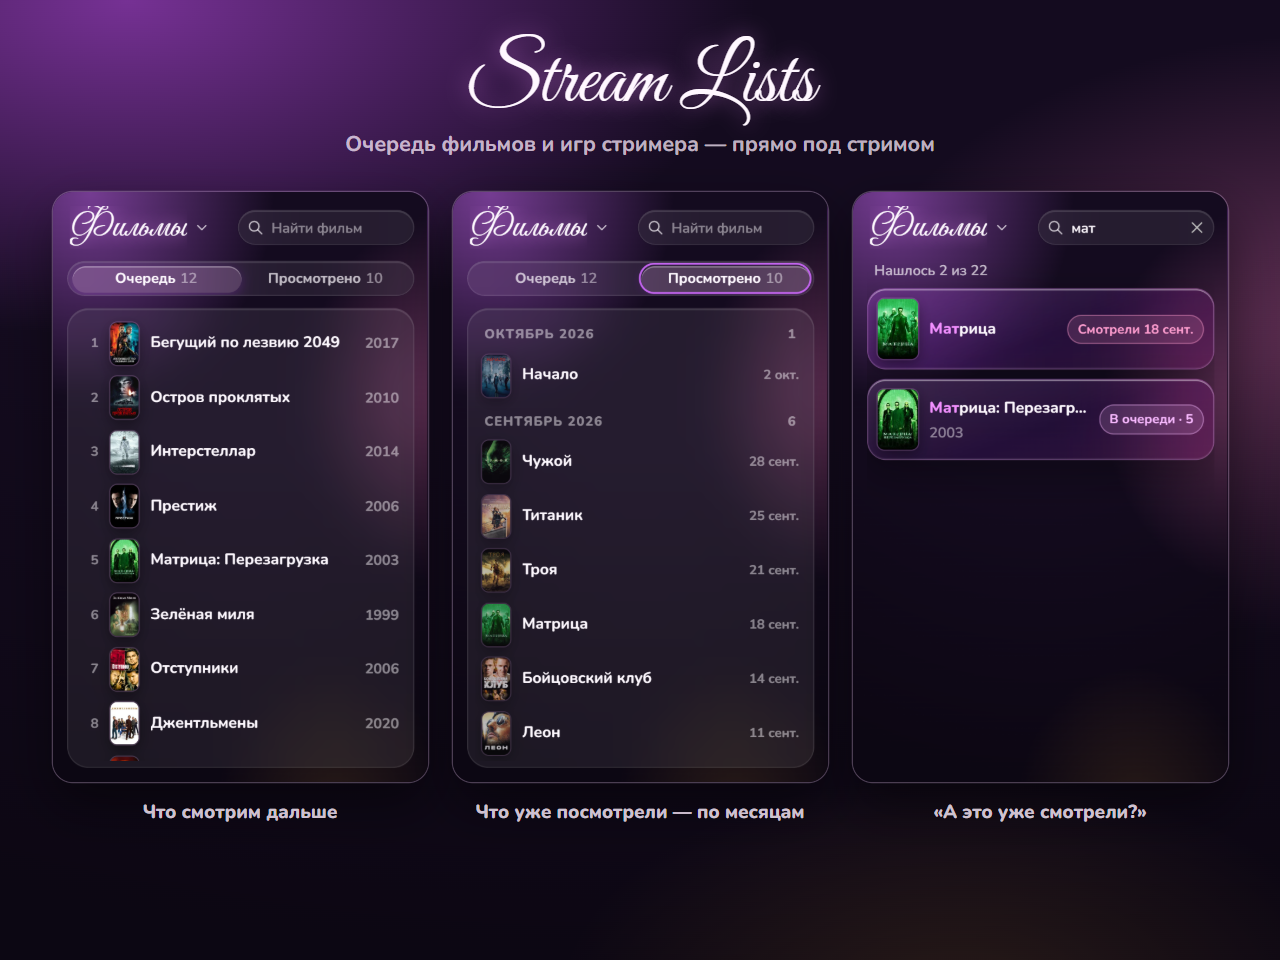
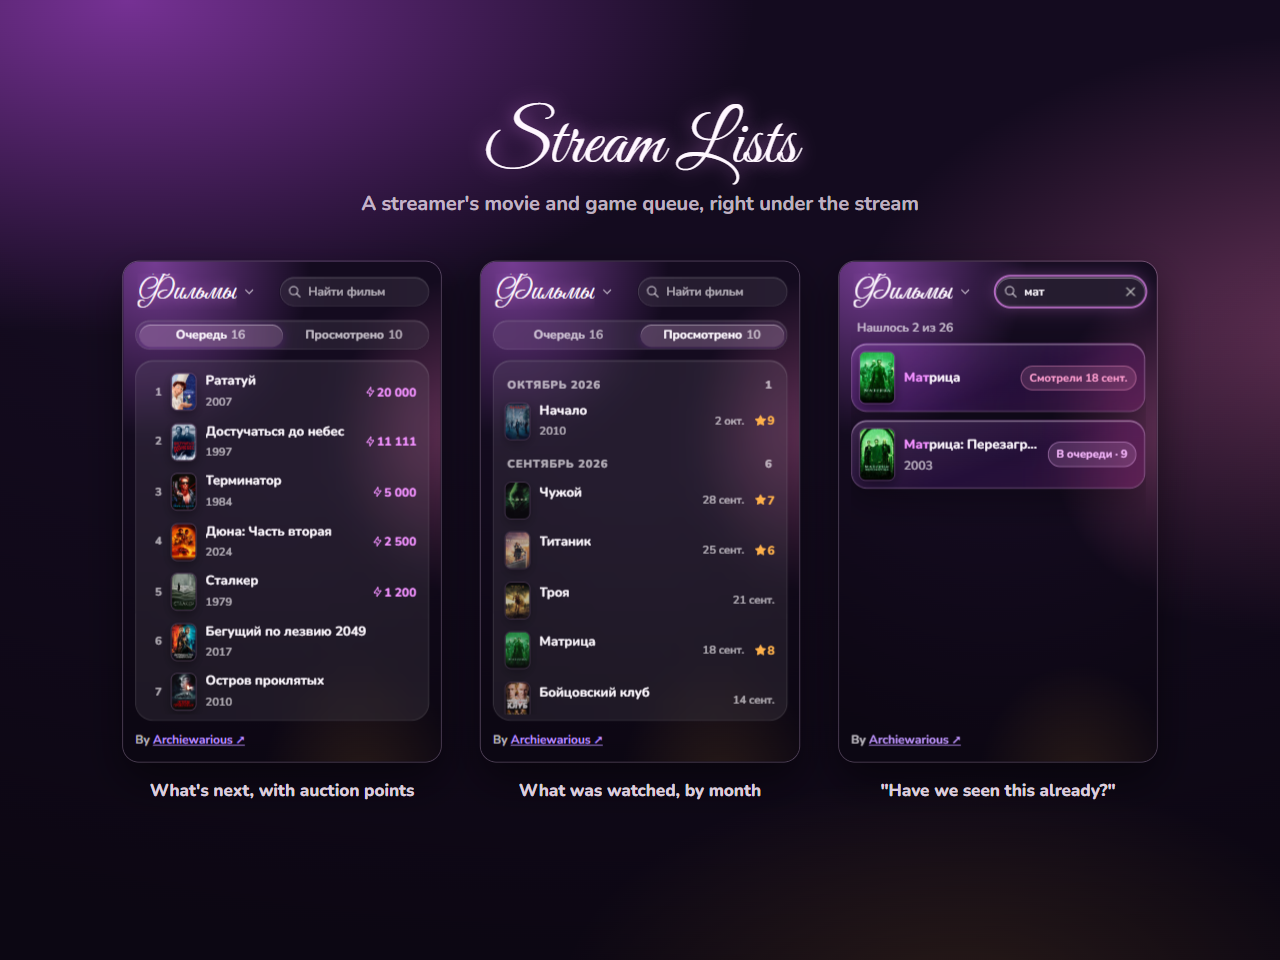
docs(review): walkthrough, console fields and fresh 1280x960 screenshots

diff --git a/docs/review/src/compose.html b/docs/review/src/compose.html
@@ -3,7 +3,7 @@
 <head>
 <meta charset="utf-8" />
 <title>Stream Lists — review assets</title>
-<!-- Renders the Twitch review images; open with #panels, #logo or #discovery and screenshot the viewport. -->
+<!-- Renders the Twitch review images; open with #panels, #editing, #logo or #discovery in a window of the right size and screenshot the viewport. -->
 <link href="https://fonts.googleapis.com/css2?family=Nunito:wght@700;800&family=Great+Vibes&display=swap" rel="stylesheet" />
 <style>
   * { box-sizing: border-box; margin: 0; }
@@ -16,15 +16,15 @@
   .view { display: none; }
   .script { font-family: 'Great Vibes', cursive; font-weight: 400; line-height: 1; text-shadow: 0 0 18px rgb(242 144 255 / 0.55); }
 
-  /* 1024×768: three panel states */
-  #panels { width: 1024px; height: 768px; padding: 34px 35px 0; }
-  #panels h1 { font-size: 64px; text-align: center; }
-  #panels p.sub { text-align: center; font-weight: 700; color: rgb(255 240 255 / 0.72); margin: 6px 0 26px; font-size: 17px; }
-  #panels .row { display: flex; gap: 20px; justify-content: center; }
-  #panels figure { width: 300px; }
-  #panels img { width: 300px; height: 472px; border-radius: 16px; display: block;
+  /* 1280×960: three real panels (318×500, as Twitch draws them), captions in English */
+  #panels, #editing { width: 1280px; height: 960px; padding: 110px 0 0; }
+  #panels h1, #editing h1 { font-size: 72px; text-align: center; }
+  #panels p.sub, #editing p.sub { text-align: center; font-weight: 700; color: rgb(255 240 255 / 0.72); margin: 8px 0 44px; font-size: 20px; }
+  #panels .row, #editing .row { display: flex; gap: 40px; justify-content: center; }
+  #panels figure, #editing figure { width: 318px; }
+  #panels img, #editing img { width: 318px; height: 500px; border-radius: 16px; display: block;
     box-shadow: 0 0 0 1px rgb(242 208 255 / 0.28), 0 18px 40px rgb(0 0 0 / 0.45); }
-  #panels figcaption { text-align: center; font-weight: 800; font-size: 15px; margin-top: 14px; color: rgb(255 240 255 / 0.8); }
+  #panels figcaption, #editing figcaption { text-align: center; font-weight: 800; font-size: 17px; margin-top: 18px; color: rgb(255 240 255 / 0.85); }
 
   /* 100×100 logo */
   #logo { width: 100px; height: 100px; position: relative; overflow: hidden;
@@ -52,11 +52,21 @@
 <body>
   <section id="panels" class="view">
     <h1 class="script">Stream Lists</h1>
-    <p class="sub">Очередь фильмов и игр стримера — прямо под стримом</p>
+    <p class="sub">A streamer's movie and game queue, right under the stream</p>
     <div class="row">
-      <figure><img src="raw-panel-queue.png" alt="" /><figcaption>Что смотрим дальше</figcaption></figure>
-      <figure><img src="raw-panel-watched.png" alt="" /><figcaption>Что уже посмотрели — по месяцам</figcaption></figure>
-      <figure><img src="raw-panel-search.png" alt="" /><figcaption>«А это уже смотрели?»</figcaption></figure>
+      <figure><img src="raw-panel-queue.png" alt="" /><figcaption>What's next, with auction points</figcaption></figure>
+      <figure><img src="raw-panel-watched.png" alt="" /><figcaption>What was watched, by month</figcaption></figure>
+      <figure><img src="raw-panel-search.png" alt="" /><figcaption>"Have we seen this already?"</figcaption></figure>
+    </div>
+  </section>
+
+  <section id="editing" class="view">
+    <h1 class="script">Stream Lists</h1>
+    <p class="sub">The streamer edits in the panel on the channel, viewers read</p>
+    <div class="row">
+      <figure><img src="raw-edit-queue.png" alt="" /><figcaption>Watched, edit, delete and drag in the queue</figcaption></figure>
+      <figure><img src="raw-edit-rate.png" alt="" /><figcaption>Rate from 1 to 10</figcaption></figure>
+      <figure><img src="raw-card-attribution.png" alt="" /><figcaption>A viewer's movie card, TMDB attribution</figcaption></figure>
     </div>
   </section>
 

diff --git a/docs/review/README.md b/docs/review/README.md
@@ -1,58 +1,134 @@
 # Материалы для ревью Twitch
 
 Требования Twitch (dev.twitch.tv/docs/extensions/life-cycle): логотип 100×100 PNG, картинка каталога 300×200 PNG,
-скриншоты от 1024×768 (4:3), PNG/JPG до 10 МБ. Иконка 24×24 нужна только видео-расширениям — у нас панель.
+скриншоты от 1024×768 (4:3), PNG/JPG до 10 МБ. Иконка 24×24 нужна только видео-расширениям, у нас панель.
+Тексты ниже копируются в консоль вручную: после правки этого файла нужно обновить поля в консоли.
 
 | Файл | Куда в консоли |
 |---|---|
 | `logo-100.png` | Logo Image |
 | `discovery-300x200.png` | Discovery Image |
-| `screenshot-1-panel.png` … `screenshot-4-appearance.png` | Screenshots (1280×960, 4:3) |
+| `screenshot-1-panel.png` … `screenshot-5-appearance.png` | Screenshots (1280×960, 4:3) |
 
-Перерисовать: `src/compose.html#panels | #logo | #discovery` в браузере нужного размера, скриншот окна.
-Данные на скриншотах демонстрационные; лоты Pointauc на скриншоте 3 — подставленные.
+Что на скриншотах (данные демонстрационные):
 
-## Тексты для каталога (только английский — так решили)
+1. `screenshot-1-panel.png`: панель зрителя. Очередь с баллами, просмотренное по месяцам, поиск.
+2. `screenshot-2-editing.png`: панель стримера на канале. Действия в строках, оценка 1–10, карточка фильма зрителя.
+3. `screenshot-3-settings.png`: окно настроек. Списки, очередь, просмотренное, чип «На проверке», логотип TMDB.
+4. `screenshot-4-pointauc.png`: импорт из Pointauc и автосинхронизация (лоты подставлены).
+5. `screenshot-5-appearance.png`: оформление, пресеты и свои цвета.
 
-**Name:** Stream Lists: Games & Movies
+Перерисовать: `npm run dev` в `extension/` и `npm run dev:ext` в `worker/`. Кадры панели снять в окне 318×500
+и положить в `src/raw-*.png`, собрать `src/compose.html#panels` и `#editing` в окне 1280×960. Окно настроек,
+диалог Pointauc и оформление снимаются с `http://[::1]:5173/config.html` в окне 1280×960. В локальной базе
+разработчика лежат настоящие названия лотов, поэтому ответы `/api/channel`, `/api/viewer/*` и
+`/api/pointauc/lots` перед съёмкой подменяют демо-набором прямо в странице: в публичные файлы настоящие
+названия не попадают.
 
-**Summary:**
-Show viewers what you'll watch or play next and what you've already finished — a searchable list with posters, right under your stream.
+## Тексты для каталога (только английский)
 
-**Description:**
-Stream Lists keeps your movie night and game backlog in one panel.
+Name:
 
-- Queue and history: what's next in order, and everything you've already watched or played, grouped by month with dates.
-- Search for viewers: "have you watched this already?" — type a title and see the date it was watched or its place in the queue.
-- Posters and years are filled in automatically from TMDB when you add a movie.
-- Paste a whole list at once; repeats are skipped.
-- Optional: import lots from your Pointauc auction (pointauc.com) — new titles are preselected, ones already queued or watched are marked.
-- Themes: Lilac Fox (default), Twitch, Sunset, Mint, Ice, Cherry, or your own colors. Viewers see your theme.
+```
+Stream Lists: Games & Movies
+```
 
-Languages: English, Russian.
+Summary:
+
+```
+Show viewers what you'll watch or play next and what you've finished: a searchable list with posters, right under your stream.
+```
+
+Description:
+
+```
+Stream Lists keeps your movie night and game backlog in one panel under the stream.
+
+- Queue and history: what is next in order, and everything already watched or played, grouped by month with dates.
+- Search for viewers: type a title to see when it was watched or its place in the queue.
+- Movie card: click a title to see its poster, genres, length, TMDB score and description.
+- Posters and years are filled in from TMDB when you add a movie. Rate watched titles from 1 to 10.
+- The streamer edits right in the panel on the channel. Viewers only read.
+- Paste a whole list at once in the settings window. Repeats are skipped.
+- Optional: connect Pointauc (pointauc.com) to import auction lots, or to add new lots automatically. Titles TMDB does not know wait in "To review" for you to accept, fix or hide. With Pointauc the queue is ordered by the auction points set there, and viewers see the points next to each title. The extension sells nothing and takes no payments. Points are only read from your Pointauc account.
+- Themes: Lilac Fox (default), Violet, Sunset, Mint, Ice, Cherry, or your own colors. Viewers see your theme.
+
+Panel extension for desktop web. No chat features. Languages: English, Russian.
 This product uses the TMDB API but is not endorsed or certified by TMDB.
+```
 
-## Walkthrough Guide (для проверяющих)
+## Walkthrough Guide
 
-1. Install the extension and activate it as a Panel.
-2. Open **Configure**. Create a list (type "Movies", any name).
-3. In "Find a movie", type e.g. `Dune` — suggestions with posters and years appear (TMDB). Press Enter to add the first one.
-   Titles without a suggestion can be added as plain text ("Add … without a poster").
-4. "Paste a list" adds many titles at once — one per line.
-5. Hover a queued title → **Watched** moves it to the history with today's date; in the history, **Back to queue** returns it.
-   Drag the handle to reorder the queue.
-6. Open the channel page: the panel shows the queue; the second tab shows the history by month; the search field finds titles in both.
-7. **Appearance** (left sidebar) changes the panel colors for viewers.
-8. **From Pointauc** is optional and needs a pointauc.com account with an open auction tab — it can be skipped during review.
+```
+Test setup: install the extension and activate it in a panel slot of the review channel. You are the broadcaster
+there, so the panel is editable. Viewers see the same panel read-only. Nothing else is needed: Pointauc is optional
+(see step 9) and every other feature works without it.
 
-Backend: `https://stream-lists.begidan32.workers.dev` (Cloudflare Worker). The streamer's requests are authorized by the
-Twitch extension JWT (broadcaster role); viewers only read. Images: `https://image.tmdb.org`.
+1. Open the channel page. The panel says there are no lists. Open the extension's settings (Configure), create a
+   list of type "Movies" with any name, and go back to the channel page.
+2. In the panel, type a title in the add field, for example "Dune". Suggestions with posters and years come from TMDB.
+   Pick one or press Enter. A title without a suggestion is added as plain text.
+3. Hover a queued title. The check mark ("Watched") moves it to the history with today's date, and a rating prompt
+   (1 to 10, or skip) appears. The pencil fixes the title or poster, the trash deletes, and the handle on the left
+   reorders the queue by dragging. In the history, "Back to queue" returns a title to the queue.
+4. The eye button, "What viewers see", shows the viewer's panel: the queue, the history grouped by month in the
+   second tab, and a search field that finds titles in both. Viewers cannot edit anything. "Back to editing" returns.
+5. In the viewer's panel click a title: a movie card opens with the poster, genres, length, TMDB score and
+   description, with the TMDB logo and attribution at the bottom.
+6. The numbers with a bolt are auction points read from Pointauc. For imported titles the queue follows the points.
+   Titles without points keep the streamer's order and can be dragged.
+7. "Paste a list" in the settings window adds many titles at once, one per line.
+8. "Appearance" in the settings window changes the panel colors that viewers see.
+9. Optional, needs a pointauc.com account: sign in at pointauc.com with Twitch, open Settings, API, Show Token and
+   copy the token, add a lot to the auction, then click the gear in the panel and paste the token. The lots appear
+   in the dialog. "Add new lots automatically" adds new lots to the queue and sends titles TMDB does not know to
+   "To review" (the chip next to the tabs). The pointauc.com tab with the auction has to stay open. The token stays
+   with the reviewer: it is stored encrypted and "Disconnect Pointauc" removes it.
+10. "By Archiewarious ↗" at the bottom of the panel opens the developer's Twitch channel in a new tab.
 
-**Changelog:** Initial release.
+Backend: https://stream-lists.begidan32.workers.dev (Cloudflare Worker with a D1 database). Requests are authorized
+by the Twitch extension token: only the broadcaster role can change data, viewers read. Posters load from
+https://image.tmdb.org. The extension uses no chat, no Bits and no identity link.
+
+Source code: https://github.com/Archiewarious/stream-lists. The JavaScript in the zip is not minified. Libraries
+(React, Mantine, dnd-kit, i18next, Tabler icons) are in the vendor-*.js file, the extension's own code in panel-*.js,
+config-*.js, AuthorSide-*.js and ItemLists-*.js. There is no eval and no obfuscation. Build: cd extension, npm ci,
+npm run build.
+
+Terms of Use: https://github.com/Archiewarious/stream-lists/blob/main/docs/legal/terms-of-use.md
+Privacy Policy: https://github.com/Archiewarious/stream-lists/blob/main/docs/legal/privacy-policy.md
+```
+
+Changelog:
+
+```
+0.0.1 Initial release.
+```
 
 ## Консоль Twitch перед отправкой
 
-- Allowlist для запросов (connect-src): `https://stream-lists.begidan32.workers.dev`
-- Allowlist для картинок (img-src): `https://image.tmdb.org`
-- Оба списка замораживаются после отправки на ревью.
-- Zip: `cd extension && npm run build`, затем `tar.exe -a -cf stream-lists.zip -C dist panel.html config.html assets`.
+| Поле | Значение |
+|---|---|
+| Name, Summary, Description | тексты выше |
+| Views | Panel (`panel.html`), Config (`config.html`); Mobile и Video overlay не включаем |
+| Panel Height | 500 (по умолчанию 300, допустимо 100 до 500); ширина панели 318 px фиксирована |
+| Has Chat, Bits | выключено: чат и Bits не используются |
+| Allowlist для запросов (URL fetching) | `https://stream-lists.begidan32.workers.dev` |
+| Allowlist для картинок (images) | `https://image.tmdb.org` |
+| Allowlist для ссылок панели (Panel Links), если поле есть | `https://www.twitch.tv/archiewarious` |
+| Author Email | `archiewarious@gmail.com` |
+| Support Email | не заполняем (поле необязательное) |
+| EULA or Terms of Service URL | `https://github.com/Archiewarious/stream-lists/blob/main/docs/legal/terms-of-use.md` |
+| Privacy Policy URL | `https://github.com/Archiewarious/stream-lists/blob/main/docs/legal/privacy-policy.md` |
+| Walkthrough Guide, Change Log | блоки выше |
+| Скриншоты, логотип, картинка каталога | файлы этой папки |
+
+- Allowlists замораживаются после отправки на ревью. URL юридических страниц входит в версию, поэтому файлы
+  `docs/legal/*.md` должны лежать в `main`, а их путь не менять; текст по ссылке править можно.
+- Ссылка «By Archiewarious ↗» ведёт на канал автора и открывается в новой вкладке. Правило Twitch 4.6.2 требует
+  видимого индикатора ухода (стрелка «↗» и подпись для скринридеров). Если ревью возразит, ссылку заменить текстом.
+- Пресет, который раньше назывался «Twitch», называется «Фиалка» / «Violet»: правила запрещают имя и брендинг
+  Twitch. Внутренний `id` пресета в данных остался `twitch`.
+- Zip: `cd extension && npm run build`, затем `cd dist && /c/Windows/System32/tar.exe -a -cf stream-lists.zip
+  panel.html config.html assets` (в Git Bash `tar` по умолчанию GNU и делает не zip; первые байты файла должны быть `PK`).
+- Тестовый канал и время, когда он live во время ревью, указывает владелец перед отправкой.
